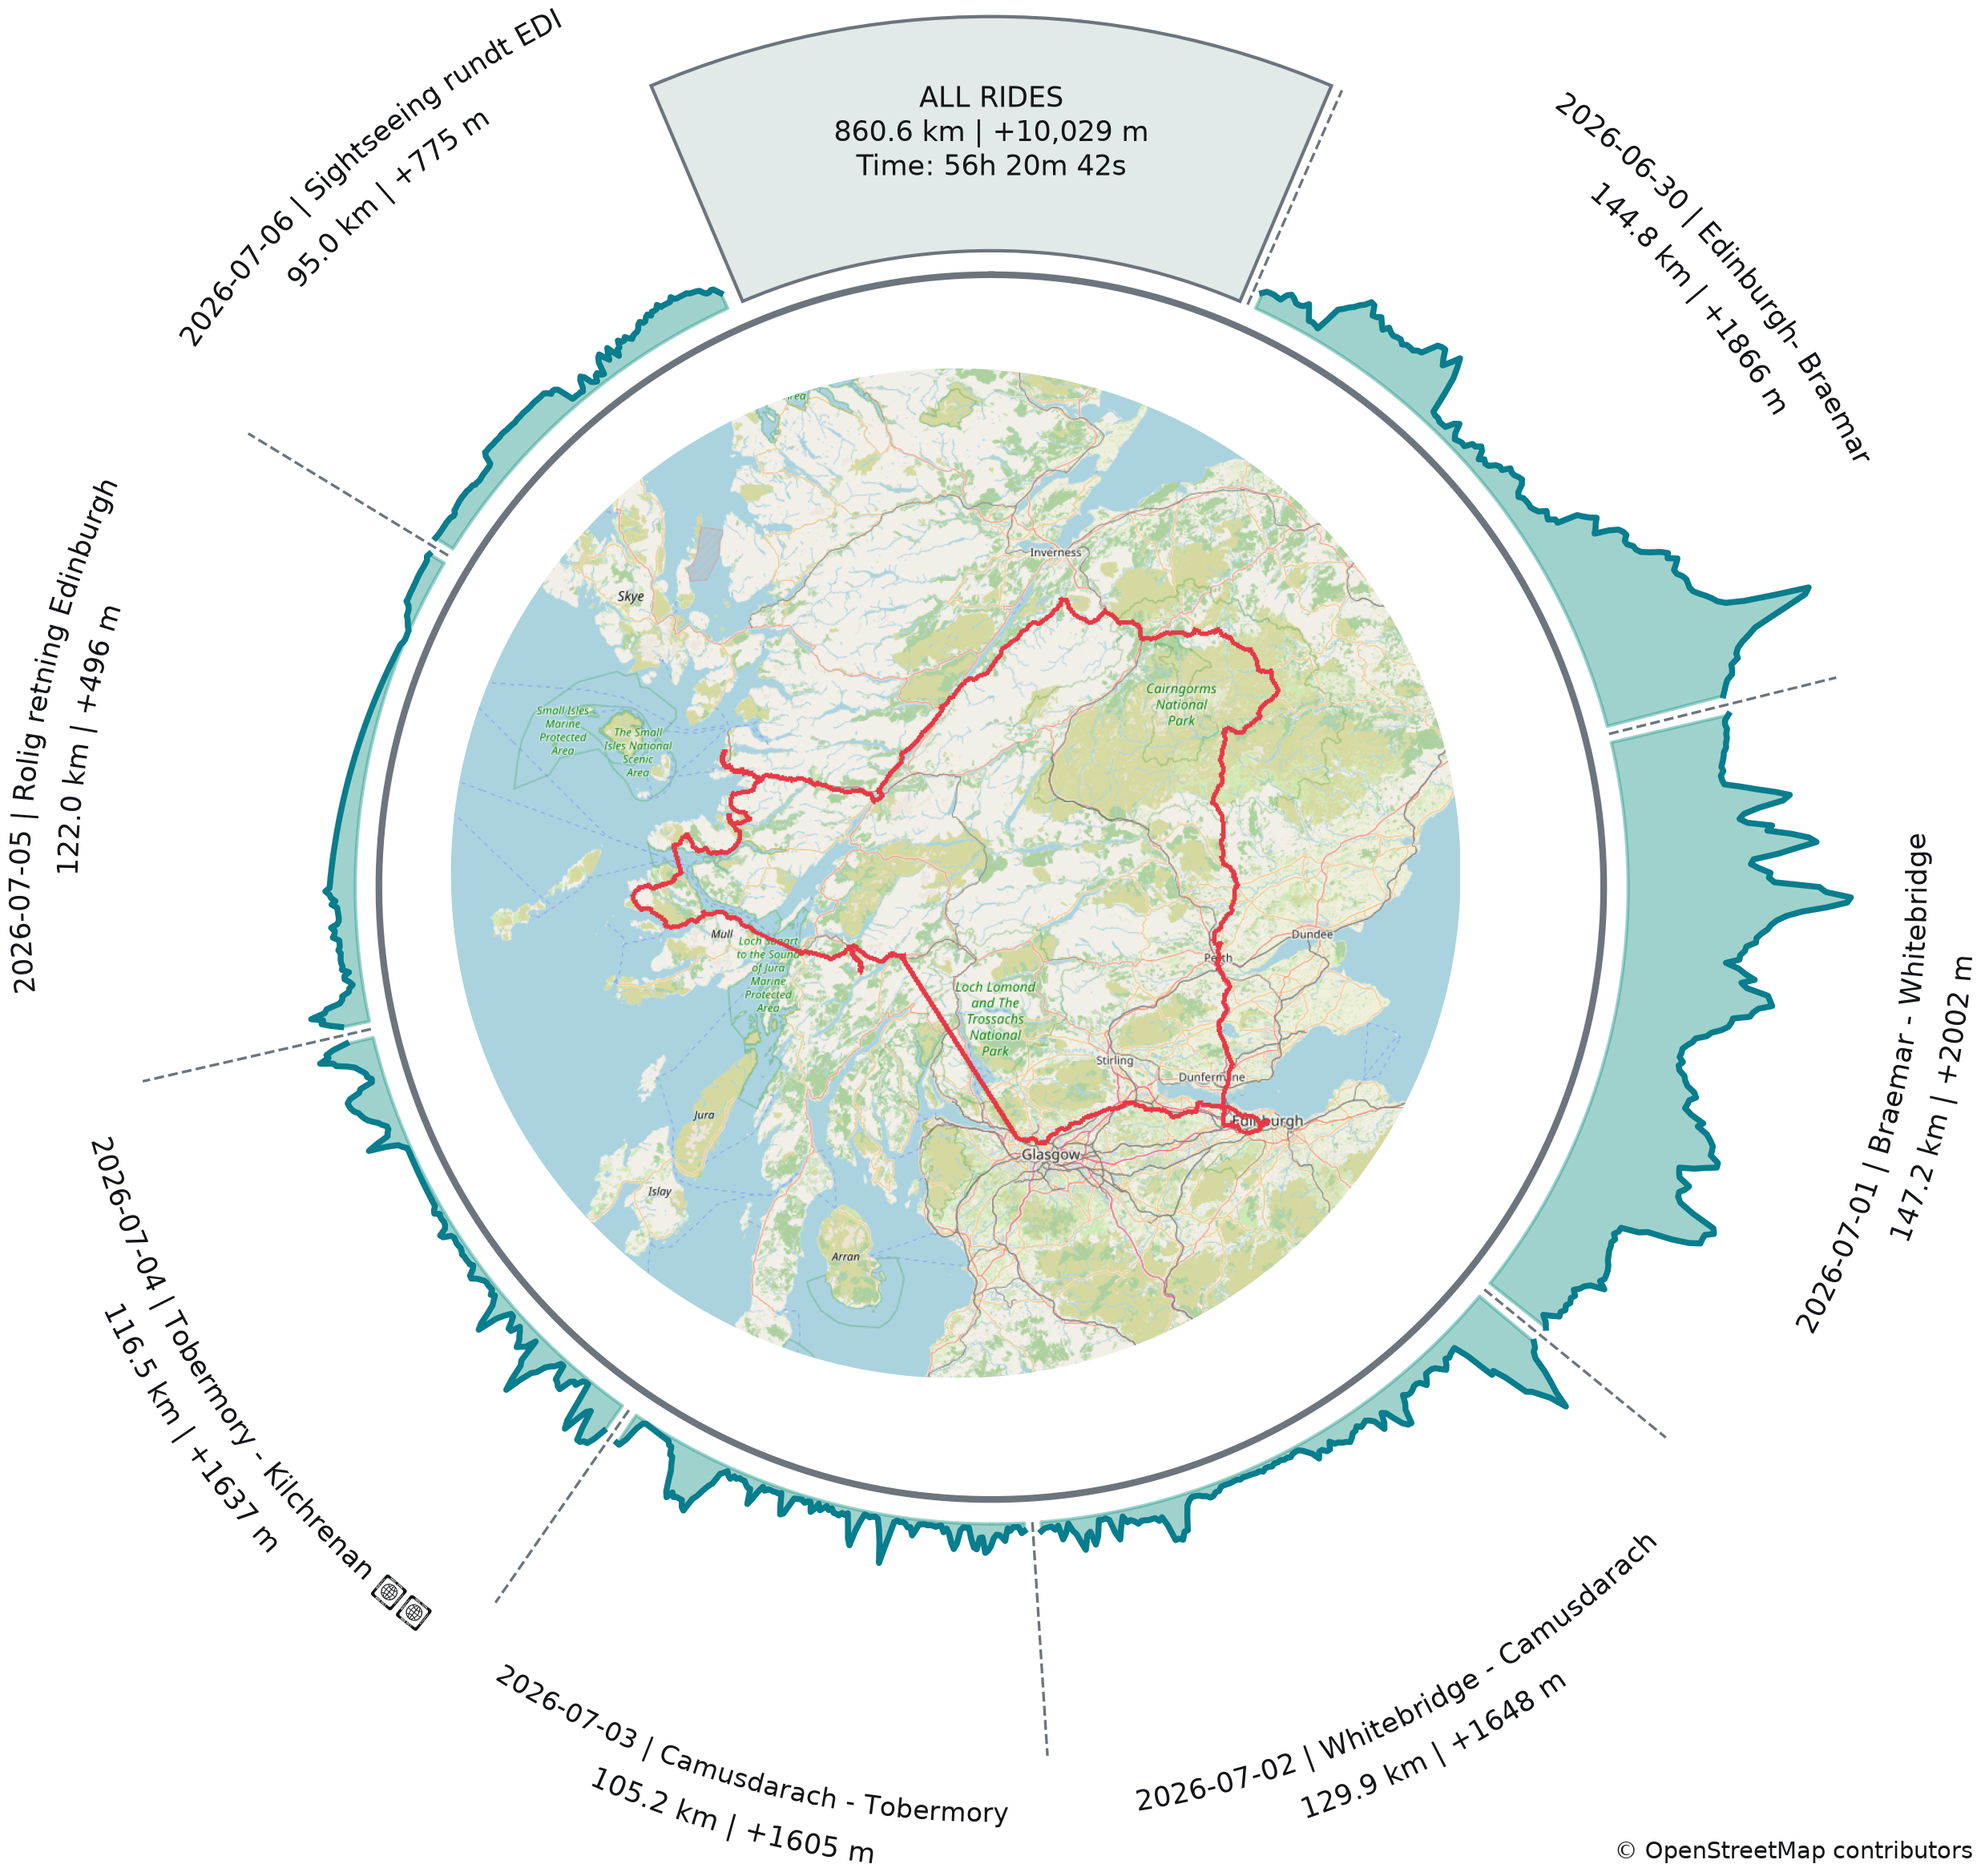
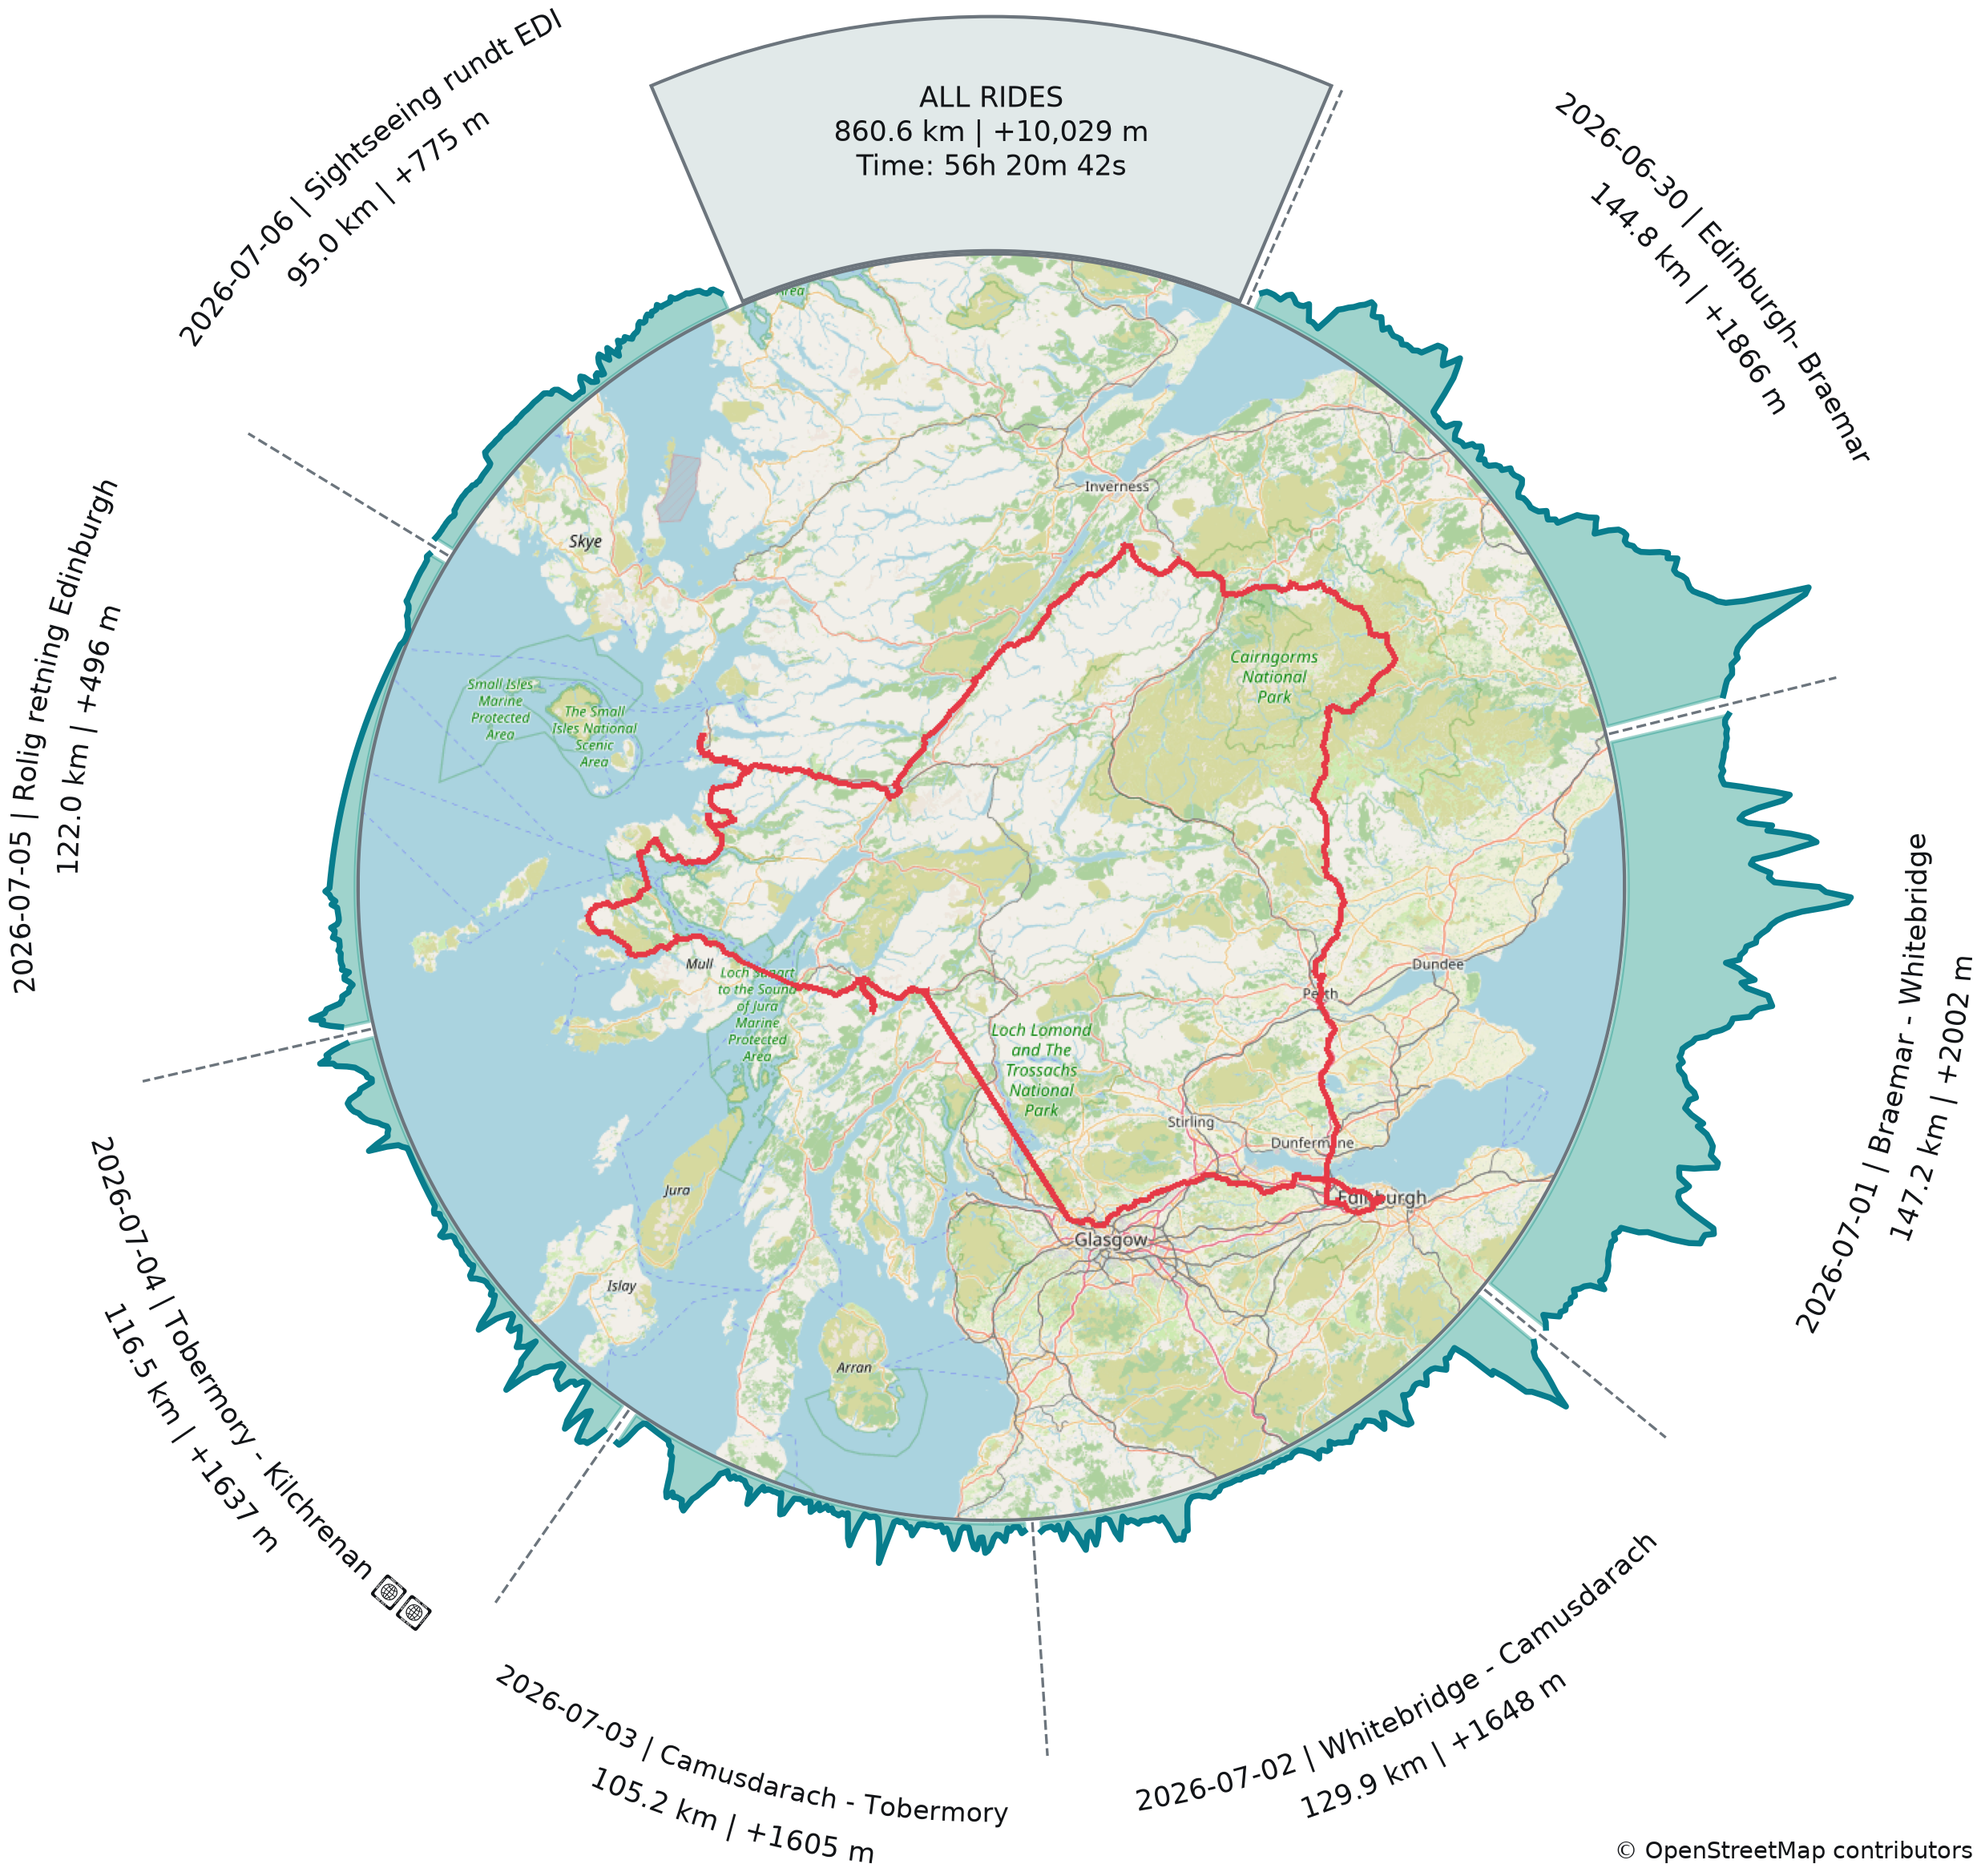
layout fixes

Changed region(s): [[0.1557, 0.125, 0.841, 0.8125]]

diff --git a/src/generate-wheel.py b/src/generate-wheel.py
@@ -192,7 +192,8 @@ def create_activity_wheel(gpx_folder, output_file=None, background="dark", trans
     background_color = "#121417" if background == "dark" else ("white" if background == "white" else "none")
     text_color = "#e0e6ed" if dark else "#121417"
     border_color = "#aab4bd" if background == "transparent" and dark else ("#3a404a" if dark else "#6c757d")
-    fig = plt.figure(figsize=(12, 12), facecolor=background_color)
+    dpi = 300
+    fig = plt.figure(figsize=(12, 12), dpi=dpi, facecolor=background_color)
     ax = fig.add_subplot(111, projection="polar", facecolor=background_color)
     ax.set_theta_zero_location("N")  # Start at 12 o'clock
     ax.set_theta_direction(-1)       # Go clockwise
@@ -201,23 +202,30 @@ def create_activity_wheel(gpx_folder, output_file=None, background="dark", trans
     ax.apply_aspect()
 
     # Radial layout dimensions
-    R_MAP = 1.0          # Radius of the inner map circle
     R_ELE_BASE = 1.06    # Inner ring where elevation starts
     R_ELE_MAX = 1.45     # Outer limit for highest elevation peak
     R_LABEL = 1.54       # Radius of the inner label line
+    R_MAP = R_ELE_BASE - 6 * ax.get_rmax() / (ax.bbox.height / 2)
 
     # 3. Embed circular map in the center using a standard Cartesian overlay axis
-    ax_map = fig.add_axes([0.325, 0.325, 0.35, 0.35], zorder=10)
+    polar_bounds = ax.get_position()
+    map_fraction = R_MAP / ax.get_rmax()
+    map_width = polar_bounds.width * map_fraction
+    map_height = polar_bounds.height * map_fraction
+    ax_map = fig.add_axes([
+        polar_bounds.x0 + (polar_bounds.width - map_width) / 2,
+        polar_bounds.y0 + (polar_bounds.height - map_height) / 2,
+        map_width, map_height,
+    ], zorder=10)
     ax_map.axis("off")
     im = ax_map.imshow(map_img)
     
     # Clip the square map image into a circle
-    h, w, _ = map_img.shape
-    patch = Circle((w / 2, h / 2), radius=min(w, h) / 2, transform=ax_map.transData)
+    patch = Circle((0.5, 0.5), radius=0.5, transform=ax_map.transAxes)
     im.set_clip_path(patch)
     # Add a clean border ring around the map
     border_theta = np.linspace(0, 2 * np.pi, 300)
-    ax.plot(border_theta, np.full_like(border_theta, R_MAP + 0.02), color=border_color, lw=2)
+    ax.plot(border_theta, np.full_like(border_theta, R_MAP), color=border_color, lw=2)
 
     # 4. Normalize elevations globally across all rides
     all_eles = np.concatenate([a["elevations"] for a in activities])
@@ -283,8 +291,6 @@ def create_activity_wheel(gpx_folder, output_file=None, background="dark", trans
             print(f"Ride sector too narrow for the full rim label: {ride_label} ({stats})")
         theta_start = theta_end + gap_rad
 
-    dpi = 300
-    fig.set_dpi(dpi)
     canvas = FigureCanvasAgg(fig)
     canvas.draw()
     rendered = Image.frombuffer("RGBA", canvas.get_width_height(), canvas.buffer_rgba(), "raw", "RGBA", 0, 1)

diff --git a/tests/test_wheel_layout.py b/tests/test_wheel_layout.py
@@ -1,0 +1,49 @@
+import contextlib
+import importlib.util
+import io
+from pathlib import Path
+import tempfile
+import unittest
+from unittest.mock import patch
+
+import matplotlib
+matplotlib.use("Agg")
+from matplotlib.figure import Figure
+import numpy as np
+
+
+script = Path(__file__).resolve().parents[1] / "src" / "generate-wheel.py"
+spec = importlib.util.spec_from_file_location("generate_wheel", script)
+wheel = importlib.util.module_from_spec(spec)
+spec.loader.exec_module(wheel)
+
+
+class WheelLayoutTests(unittest.TestCase):
+    def test_map_is_centered_within_ten_pixels_of_information_ring(self):
+        def verify_layout(figure, *args, **kwargs):
+            figure.canvas.draw()
+            polar, map_axis = figure.axes
+            bounds = map_axis.get_window_extent()
+            center = polar.transData.transform((0, 0))
+            ring_top = polar.transData.transform((0, 1.06))
+            self.assertAlmostEqual((bounds.x0 + bounds.x1) / 2, center[0], delta=0.5)
+            self.assertAlmostEqual((bounds.y0 + bounds.y1) / 2, center[1], delta=0.5)
+            gap = ring_top[1] - bounds.y1
+            self.assertGreaterEqual(gap, 0)
+            self.assertLessEqual(gap, 10)
+
+        activity = {
+            "date": "2026-01-01", "name": "Ride", "coords": [(0, 0), (1, 1)],
+            "elevations": np.array([0, 1]), "distance_km": 1,
+            "elev_gain_m": 1, "duration_s": None,
+        }
+        with tempfile.TemporaryDirectory() as folder, \
+             patch.object(wheel, "parse_gpx_folder", return_value=([activity], [], [])), \
+             patch.object(wheel, "fetch_center_map", return_value=np.zeros((32, 32, 3))), \
+             patch.object(Figure, "savefig", verify_layout), \
+             contextlib.redirect_stdout(io.StringIO()):
+            wheel.create_activity_wheel(folder)
+
+
+if __name__ == "__main__":
+    unittest.main()

diff --git a/README.md b/README.md
@@ -11,17 +11,22 @@ appears in the bottom-right corner of the image.
 The output is cropped to the infographic with approximately 10 pixels of
 padding on each edge.
 
-Prerequisites
+## Prerequisites
 
 Install the required libraries using pip:
 ~~~bash
 pip install gpxpy matplotlib numpy requests pillow
 ~~~
 
+## Run script
+
 Run the script with the directory containing your GPX files:
+
 ~~~powershell
 python src\generate-wheel.py "C:\path\to\gpx_tracks"
 ~~~
+
+### Arguments and switches
 
 The directory argument is optional and defaults to `./gpx_tracks`. The generated
 `activity_wheel.png` is saved in the GPX directory. The script needs
@@ -32,22 +37,26 @@ The default background is dark. Use `--background white` for a white image, or
 `--transparent-theme light` (the default, with dark labels for a light
 background) or `--transparent-theme dark` (with light labels for a dark
 background). The map and summary sector remain visible.
+
 ~~~powershell
 python src\generate-wheel.py "C:\path\to\gpx_tracks" --background transparent --transparent-theme dark
 ~~~
 
 If the default output cannot be written, use `--output` to choose another
 filename in an existing writable folder:
+
 ~~~powershell
 python src\generate-wheel.py "C:\path\to\gpx_tracks" --output "$env:TEMP\activity_wheel_new.png"
 ~~~
 
-## How to Use It with Strava Data
+## How to use with Strava Data
 
 1. Export from Strava:
-	• Single rides: Open any activity on Strava → click the ... (More) icon → Export GPX.
-	• Bulk export: Go to Strava Settings → My Account → Download or Delete Your Account → Request Your Archive. Unzip the archive and copy the .gpx files from the activities folder into your chosen GPX directory. (Note: If your bulk archive contains .fit.gz files instead of .gpx, you can convert them using gpsbabel or fitparse.)
+   1. Single rides: Open any activity on Strava → click the ... (More) icon → Export GPX.
+   2. Bulk export: Go to Strava Settings → My Account → Download or Delete Your Account → Request Your Archive. Unzip the archive and copy the .gpx files from the activities folder into your chosen GPX directory. (Note: If your bulk archive contains .fit.gz files instead of .gpx, you can convert them using gpsbabel or fitparse.)
 
 ## Example output
+
+Example output for a weeks trip to Scotland.
 
 ![test](activity_wheel.png)
